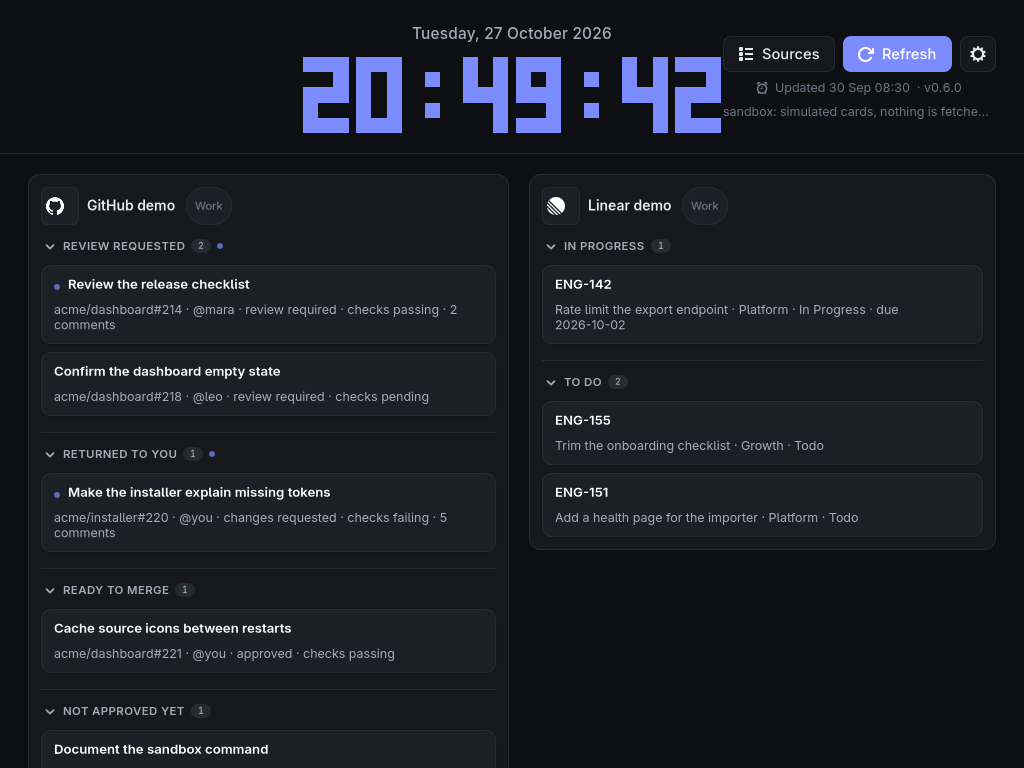
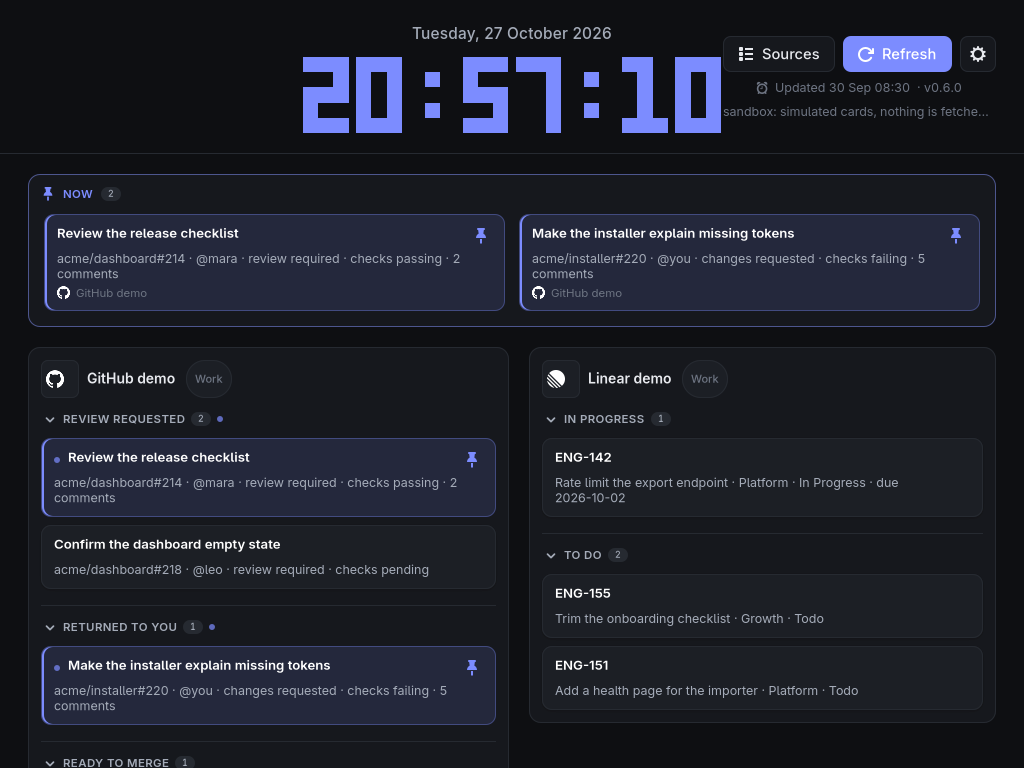
docs: the README pictures of every view
The board, the light scheme, the Sources, Settings and Snoozed dialogs,
all from the sandbox through the Broadway backend; `make screenshots`
makes the five of them.

diff --git a/README.md b/README.md
@@ -6,7 +6,7 @@ TasksPending is a local-first dashboard of your pending work: pull requests, iss
 
 ![TasksPending with simulated cards: a clock and weather, the cards in progress in a Now row, and one group of stacks per source](docs/assets/tasks-pending-sandbox.png)
 
-The picture comes from `tasks-pending sandbox`, which shows simulated cards without any configuration or credentials; `make screenshots` regenerates it.
+Every picture here comes from `tasks-pending sandbox`, which shows simulated cards without any configuration or credentials; `make screenshots` regenerates them.
 
 ## What it shows
 
@@ -16,6 +16,16 @@ The picture comes from `tasks-pending sandbox`, which shows simulated cards with
 - **Snooze.** Hide a card for an hour, until tomorrow, until next week, or until it changes. It always comes back when the item changes, and nothing is written to the provider.
 - **What changed.** A small dot marks the cards that changed since you last looked.
 - **Local only.** The daemon listens on this machine, reads tokens from the environment, and keeps your marks and snoozes in a state folder. The window talks to it over loopback and never to the providers.
+
+<p align="center">
+  <img src="docs/assets/tasks-pending-sources.png" alt="The Sources dialog: each source with its board, status and last fetch" width="49%">
+  <img src="docs/assets/tasks-pending-settings.png" alt="The Settings dialog: board filter, auto-refresh and show or hide switches" width="49%">
+</p>
+
+<p align="center">
+  <img src="docs/assets/tasks-pending-snoozed.png" alt="The Snoozed dialog: a snoozed card with a Wake button" width="49%">
+  <img src="docs/assets/tasks-pending-sandbox-light.png" alt="The same board in the light scheme" width="49%">
+</p>
 
 The window follows the system's dark or light scheme with its own palette.
 

diff --git a/AGENTS.md b/AGENTS.md
@@ -22,7 +22,7 @@ Use the vocabulary in `crates/pending-core`: `DashboardSnapshot`, `Board` (a fil
 - `make up`: run the daemon on `127.0.0.1:61000`.
 - `make app`: open the window (over the daemon when it runs, else over the sources).
 - `make sandbox`: open the window over deterministic simulated cards, without reading config, credentials, cache, or external sources.
-- `make screenshots`: regenerate `docs/assets/tasks-pending-sandbox.png` from the sandbox window (`tasks-pending sandbox --screenshot`); run it after a change that alters how the window looks. It needs a display that is drawing frames (not one on DPMS off). Without one, GTK's Broadway backend works headless at 1024×768: `gtk4-broadwayd :5 &` then `GDK_BACKEND=broadway BROADWAY_DISPLAY=:5 make screenshots`.
+- `make screenshots`: regenerate the README pictures in `docs/assets` from the sandbox window (`tasks-pending sandbox --screenshot <file> --scene board|light|sources|settings|snoozed`); run it after a change that alters how the window looks. It needs a display that is drawing frames (not one on DPMS off). Without one, GTK's Broadway backend works headless at 1024×768: `gtk4-broadwayd :5 &` then `GDK_BACKEND=broadway BROADWAY_DISPLAY=:5 make screenshots`.
 - `make changelog-check`: check `CHANGELOG.md`'s sections.
 - `make install-test` / `make release-installer-test` / `make release-assets-test`: validate the source installer, the public release installer and its stable download aliases without network access or changes to the machine.
 - `make release-local` / `make release-smoke`: build the release bundle under `dist/`, and smoke test it.
